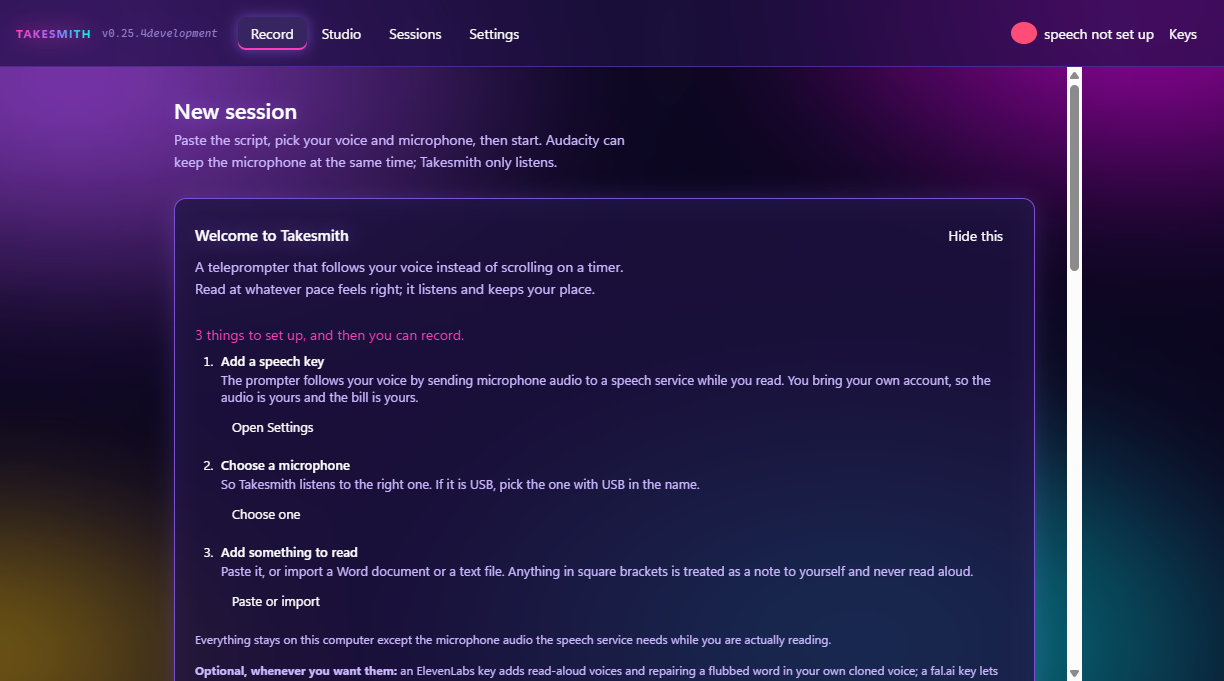
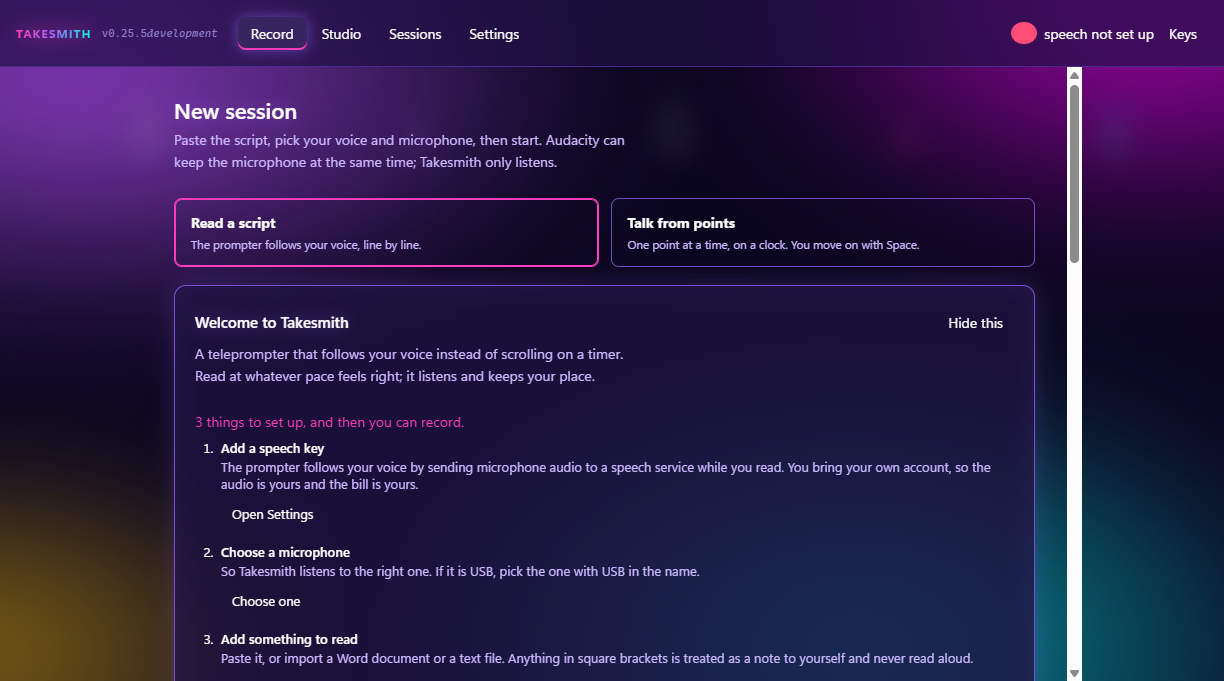
0.25.5: talking from points, three pictures and what it does

diff --git a/README.md b/README.md
@@ -26,6 +26,20 @@ The goal is to let them speak naturally while the script keeps up.
 * Provides runway words so you can see what is coming without chasing the screen
 * Walk back through a paused take a sentence at a time, and record again from that point
 
+## Talking from points (0.25.5)
+
+For an episode with no script. The list is your topics, split into the points you want to reach, each with a rough time, imported straight from a Word document.
+
+![Talking points on the Record tab: topics, points and times, checked before you start](shots/09-talk-setup.png)
+
+While you record, one point is on screen with a clock that changes colour as its time runs down. It never moves you on: Space does. A bridge carries you into the next topic, and the whole episode's clock sits quietly at the bottom, with whether there is room for the extra topic.
+
+![Recording from talking points: the point, its clock, the bridge into the next topic, and the whole list](shots/10-talk-points.png)
+
+Pause to go back to any point, listen, and go again from there. The cut lands in the gap before it, and the clocks go back with it. Afterwards one button in the studio turns the topics into chapters.
+
+![Paused: back to the start of a point, ready to go again](shots/11-talk-redo.png)
+
 ## The studio
 
 ![The studio timeline, a clip to a layer](shots/02-studio.png)
@@ -97,7 +111,7 @@ That idea turned into Takesmith.
 
 ## Current status
 
-Takesmith is under active development and testing. The released build is **0.25.4**. Music Lab is **0.26.0**, built and in testing, and not released yet.
+Takesmith is under active development and testing. The released build is **0.25.5**, which added talking from points. Music Lab is **0.26.0**, built and in testing, and not released yet.
 
 The core project is kept in a private repository while the software continues to be developed. This repository is the public home for information, screenshots, development updates, and future release information.
 
